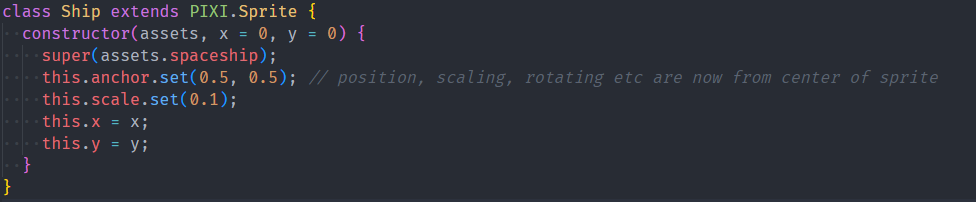
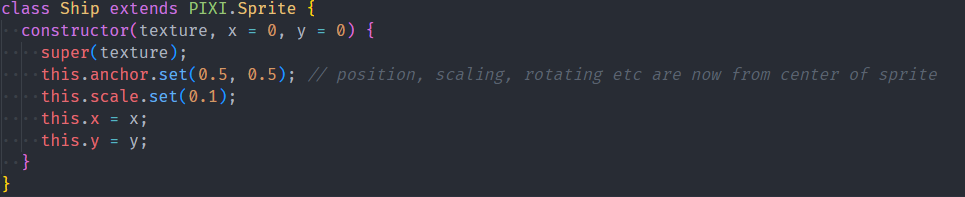
Updating ship add instructions

diff --git a/tutorial/HW-circle-blast-1.md b/tutorial/HW-circle-blast-1.md
@@ -281,7 +281,7 @@ Now we need to create a spaceship that the player can control. We will first cre
 
 ```javascript
 // #5 - Create ship
-ship = new Ship(assets);
+ship = new Ship(assets.spaceship);
 gameScene.addChild(ship);
 ```
 
